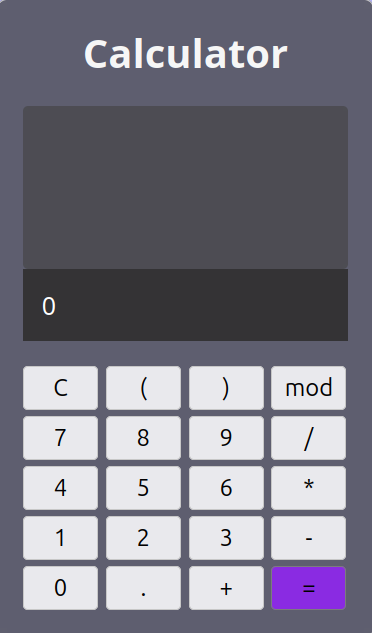
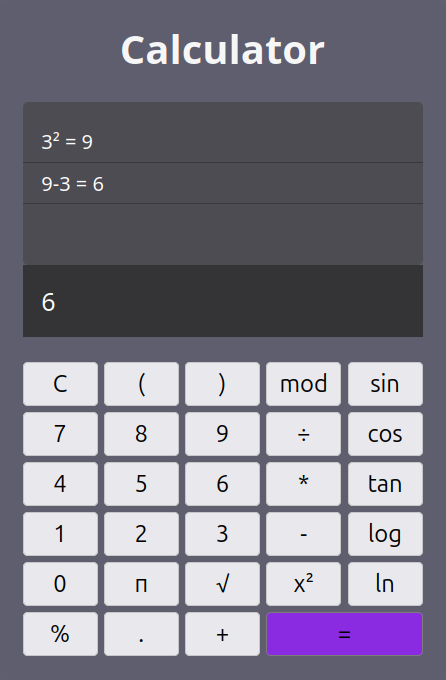
fix equal button spanning across two columns

diff --git a/src/styles/Calculator.css b/src/styles/Calculator.css
@@ -64,7 +64,7 @@ body {
 
         .calcBtn {
             height: 35px;
-            width: 60px;
+            width: 100%;
             padding: 5px;
             font-size: 19px;
             border-radius: 4px;
@@ -72,6 +72,7 @@ body {
         }
 
         .equals {
+            grid-column: 4 / span 2;
             background-color: #8a2be2;
             border: 1px solid #7c7c7c;
 

diff --git a/src/components/ButtonGrid.jsx b/src/components/ButtonGrid.jsx
@@ -26,8 +26,8 @@ function ButtonGrid({ append, compute, clear }) {
         <CalcButton
           key={index}
           label={btn}
-          onClick={handleClick}
           className={btn === "=" ? "equals" : ""}
+          onClick={handleClick}
         />
       ))}
     </div>

diff --git a/src/components/CalcButton.jsx b/src/components/CalcButton.jsx
@@ -6,6 +6,7 @@ function CalcButton({ label, onClick, className }) {
         >
             {label}
         </button>
-    )
+    );
 }
+
 export default CalcButton;
